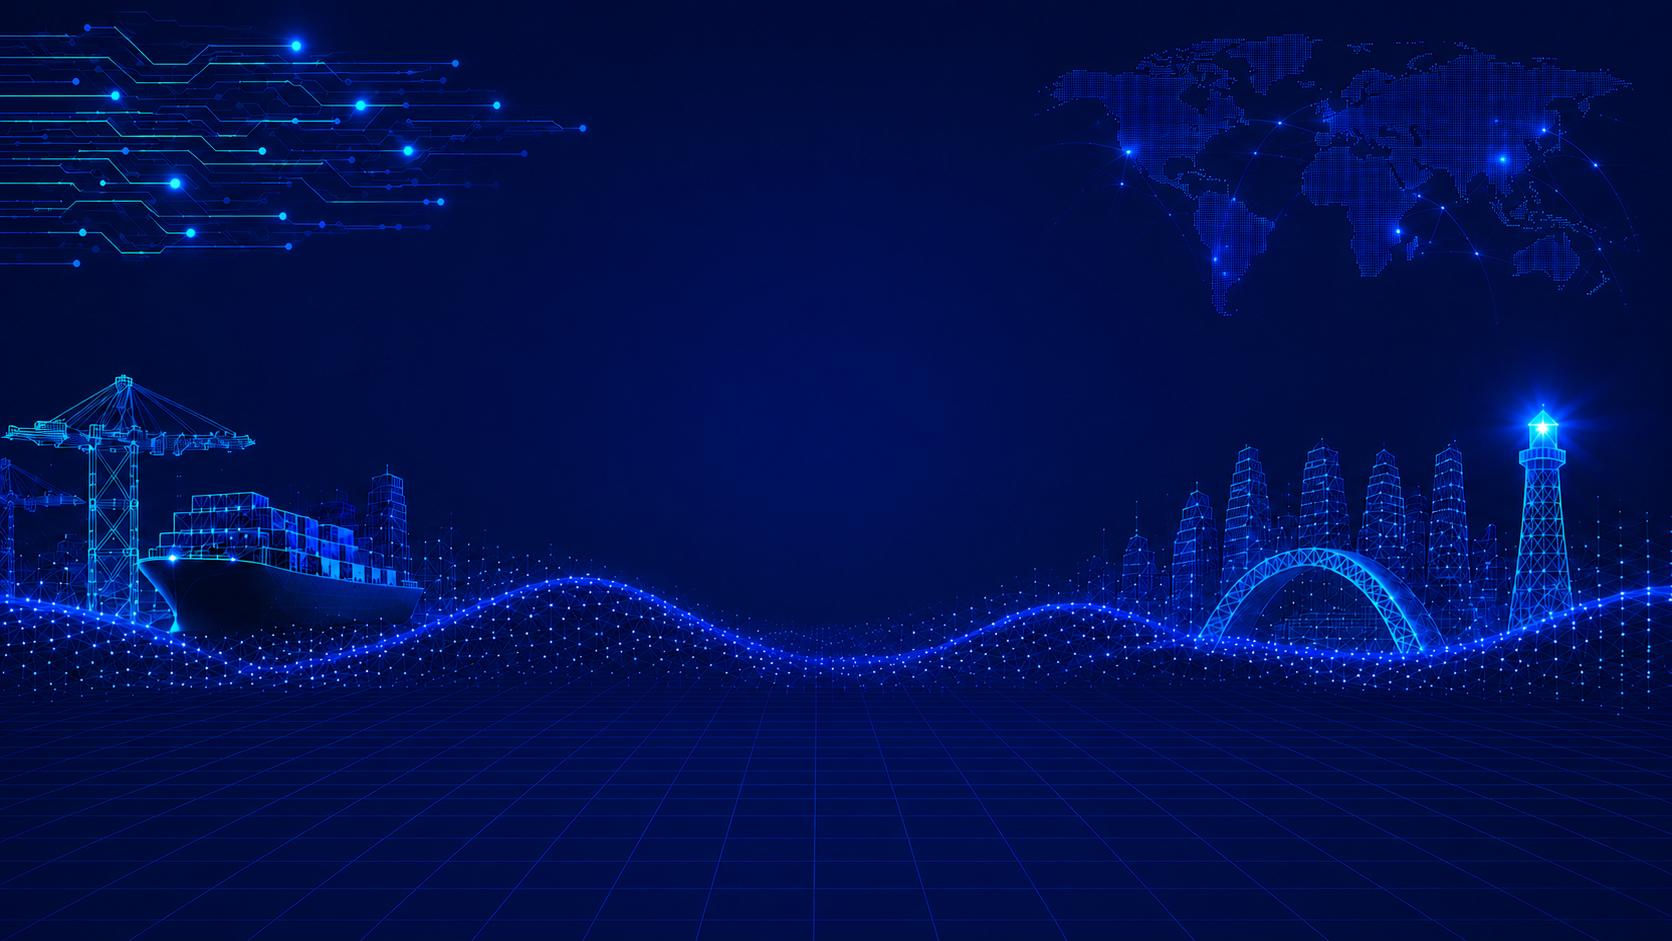
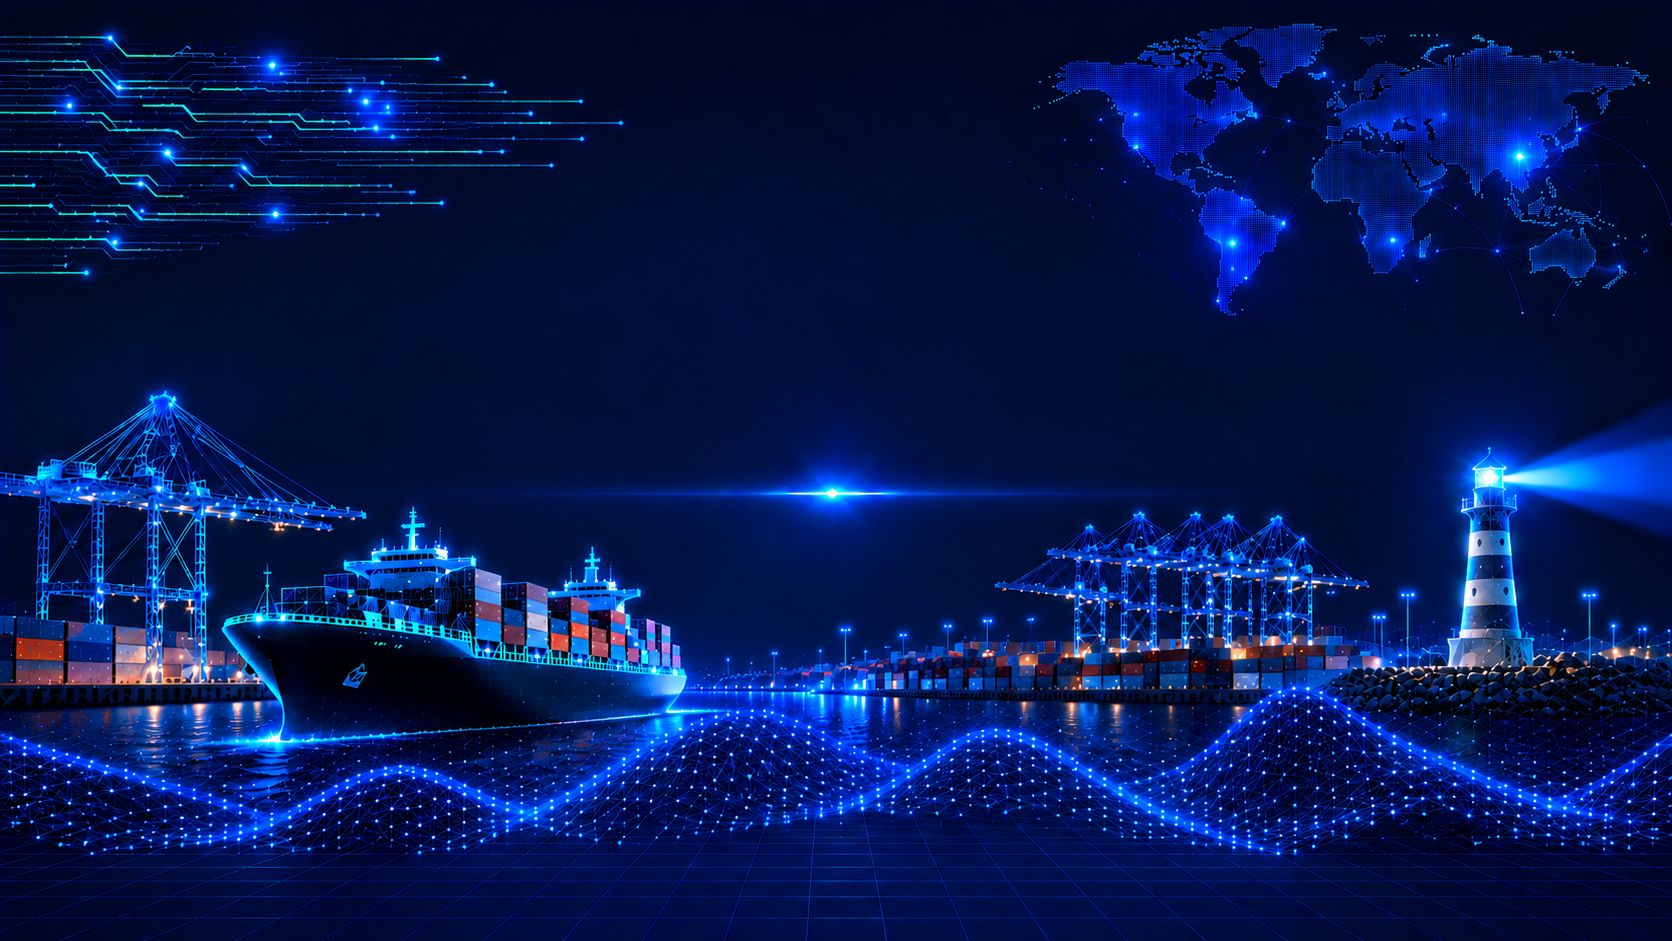
Add two-column layout and preview styles; update background images

diff --git a/showcase-design.css b/showcase-design.css
@@ -1,4 +1,4 @@
-.app-showcase{height:100%;position:relative;overflow:hidden;padding:5.2% 8%;background:#031342 url('bg.jpg') center/cover no-repeat;color:#fff}
+.app-showcase{height:100%;position:relative;overflow:hidden;padding:5.2% 8%;background:#031342 url('bg.png') center/cover no-repeat;color:#fff}
 .app-showcase:before{content:"";position:absolute;inset:0;background:linear-gradient(90deg,rgba(2,12,54,.82),rgba(3,21,82,.16) 63%,rgba(1,10,45,.4));pointer-events:none}.showcase-copy,.product-frame,.showcase-progress{position:relative;z-index:1}.showcase-copy{width:38%;min-width:260px;padding-top:7%}.showcase-copy p{font:700 clamp(9px,1.2vw,18px) 'Space Grotesk';letter-spacing:.18em;color:#62efff}.showcase-copy h3{font:700 clamp(26px,4.3vw,69px)/1.08 'Space Grotesk';margin:0;text-shadow:0 0 18px #0a71e9}.product-frame{position:absolute;right:7%;top:10%;width:53%;height:75%;display:grid;place-items:center;border:1px solid rgba(63,230,255,.55);border-radius:clamp(10px,1.5vw,24px);background:rgba(3,16,69,.34);box-shadow:0 0 30px rgba(14,169,255,.35),inset 0 0 30px rgba(10,75,205,.28);overflow:hidden}.product-frame img{width:100%;height:100%;object-fit:contain;filter:drop-shadow(0 14px 20px rgba(0,0,0,.4));animation:showcase-in .7s cubic-bezier(.2,.8,.2,1) both}.showcase-progress{position:absolute;left:8%;bottom:10%;display:flex;gap:9px}.showcase-progress i{display:block;width:clamp(24px,4vw,62px);height:3px;background:rgba(146,227,255,.35);border-radius:99px}.showcase-progress i.active{background:#57f4ff;box-shadow:0 0 8px #2bdcff}@keyframes showcase-in{from{opacity:0;transform:translateY(25px) scale(.97)}to{opacity:1;transform:none}}
 .showcase-controls{display:none;grid-column:1/-1;margin-top:4px;padding:20px;border:1px solid #e2e8f2;border-radius:13px;background:#fff}.showcase-controls.visible{display:block}.showcase-controls h3{font:700 16px 'Space Grotesk';margin:0 0 14px;color:#102653}.showcase-thumbs{display:grid;grid-template-columns:repeat(3,1fr);gap:12px}.showcase-thumb{border:1px solid #e3e9f3;border-radius:9px;overflow:hidden;background:#f7faff}.showcase-thumb img{display:block;width:100%;height:94px;object-fit:cover}.showcase-thumb span{display:block;padding:9px;font-size:11px;font-weight:700;color:#18305d}
 @media(max-width:700px){.app-showcase{padding:9% 7%}.showcase-copy{width:100%;padding-top:0}.showcase-copy h3{font-size:clamp(23px,6vw,42px)}.product-frame{top:38%;left:7%;right:7%;width:auto;height:51%}.showcase-progress{left:7%;bottom:7%}.showcase-thumbs{grid-template-columns:1fr}.showcase-thumb{display:flex;align-items:center}.showcase-thumb img{width:110px;height:72px}.showcase-controls{padding:16px}}

diff --git a/count-scene.css b/count-scene.css
@@ -1,1 +1,1 @@
-.count-tech-scene .screen-bg{background:url('bg.jpg') center/cover no-repeat!important}.count-tech-scene .display-top{display:none!important}.count-tech-scene .orb-row{opacity:.72}.count-overlay{position:absolute;z-index:4;left:50%;top:45%;transform:translate(-50%,-50%);display:grid;place-items:center;width:clamp(190px,31vw,500px);aspect-ratio:1;border-radius:50%;border:1px solid rgba(57,224,255,.85);background:radial-gradient(circle,#1459c8 0%,#0d358d 58%,rgba(5,30,103,.75) 100%);box-shadow:0 0 48px rgba(33,181,255,.68),inset 0 0 42px rgba(44,226,255,.35);animation:count-scene-in .45s ease-out both}.count-overlay b{font:700 clamp(120px,25vw,390px)/.8 'Space Grotesk';color:#fff;text-shadow:0 0 28px #37d9ff}.count-overlay.ready{width:auto;aspect-ratio:auto;padding:clamp(32px,6vw,90px) clamp(34px,8vw,130px)}.count-overlay.ready b{font:700 clamp(19px,4vw,59px) 'Space Grotesk';letter-spacing:.16em;white-space:nowrap}.count-tech-scene .touch-link{bottom:16%}@keyframes count-scene-in{from{opacity:0;transform:translate(-50%,-45%) scale(.9)}to{opacity:1;transform:translate(-50%,-50%) scale(1)}}
+.count-tech-scene .screen-bg{background:url('bg.png') center/cover no-repeat!important}.count-tech-scene .display-top{display:none!important}.count-tech-scene .orb-row{opacity:.72}.count-overlay{position:absolute;z-index:4;left:50%;top:45%;transform:translate(-50%,-50%);display:grid;place-items:center;width:clamp(190px,31vw,500px);aspect-ratio:1;border-radius:50%;border:1px solid rgba(57,224,255,.85);background:radial-gradient(circle,#1459c8 0%,#0d358d 58%,rgba(5,30,103,.75) 100%);box-shadow:0 0 48px rgba(33,181,255,.68),inset 0 0 42px rgba(44,226,255,.35);animation:count-scene-in .45s ease-out both}.count-overlay b{font:700 clamp(120px,25vw,390px)/.8 'Space Grotesk';color:#fff;text-shadow:0 0 28px #37d9ff}.count-overlay.ready{width:auto;aspect-ratio:auto;padding:clamp(32px,6vw,90px) clamp(34px,8vw,130px)}.count-overlay.ready b{font:700 clamp(19px,4vw,59px) 'Space Grotesk';letter-spacing:.16em;white-space:nowrap}.count-tech-scene .touch-link{bottom:16%}@keyframes count-scene-in{from{opacity:0;transform:translate(-50%,-45%) scale(.9)}to{opacity:1;transform:translate(-50%,-50%) scale(1)}}

diff --git a/two-column-ratio.css b/two-column-ratio.css
@@ -1,0 +1,18 @@
+@media(min-width:1101px){
+  .control-preview-layout{grid-template-columns:minmax(0,2fr) minmax(0,3fr);gap:24px}
+  .control-preview-layout .preview-section{padding:18px}
+  .control-preview-layout .mini-display{width:100%;aspect-ratio:16/9}
+  .control-column .state-card-single{margin-top:14px}
+  .control-column .state-card-single .state-card,.control-column .state-card{min-height:142px;padding:16px}
+  .control-column .state-card b{margin-top:25px;font-size:14px}
+  .control-column .state-card small{font-size:10px;margin-top:5px}
+  .control-column .state-icon{width:34px;height:34px;font-size:14px}
+  .control-column .interaction-panel{padding:20px;margin-top:18px}
+  .control-column .panel-heading h2{font-size:18px}
+  .control-column .hint{font-size:11px}
+  .control-column .touch-controls{grid-template-columns:repeat(4,1fr);gap:8px;margin-top:16px}
+  .control-column .touch-btn{min-height:80px;padding:9px 5px}
+  .control-column .touch-orb{width:30px;height:30px;margin-bottom:5px}
+  .control-column .touch-btn b{font-size:9px}
+  .control-column .touch-btn small{font-size:8px}
+}

diff --git a/countdown-design.css b/countdown-design.css
@@ -1,5 +1,5 @@
 /* Countdown uses the supplied numbered event visuals over the clean bg asset. */
-.count-screen{background:#031342 url('bg.jpg') center/cover no-repeat!important;position:relative;overflow:hidden}
+.count-screen{background:#031342 url('bg.png') center/cover no-repeat!important;position:relative;overflow:hidden}
 .count-image{position:absolute;inset:0;width:100%;height:100%;object-fit:cover;animation:count-in .42s ease-out both}
 .count-zero{position:relative;z-index:1;width:clamp(175px,37vw,605px);aspect-ratio:1;border-radius:50%;display:grid;place-items:center;background:radial-gradient(circle at 50% 45%,#1854ca,#0b2d87 63%,#09236c);border:1px solid #2ad8ff;box-shadow:0 0 55px rgba(26,169,255,.75),inset 0 0 42px rgba(16,208,255,.42)}
 .count-zero p{position:absolute;top:23%;margin:0;color:#79f7ff;font:700 clamp(9px,1.8vw,28px) 'Space Grotesk';letter-spacing:.28em}.count-zero b{font:700 clamp(110px,25vw,400px)/.8 'Space Grotesk';color:#fff;text-shadow:0 0 28px #39caff}

diff --git a/app.js b/app.js
@@ -28,6 +28,18 @@ if (stateCardsContainer && firstStateCard && interactionPanel) {
   interactionPanel.classList.add('state-1-panel');
   stateCardsContainer.parentNode.insertBefore(interactionPanel, stateCardsContainer);
 }
+const workspace = document.querySelector('.workspace');
+const stateSection = document.querySelector('.state-section');
+const previewSection = document.querySelector('.preview-section');
+if (workspace && stateSection && previewSection) {
+  const twoColumnLayout = document.createElement('div');
+  twoColumnLayout.className = 'control-preview-layout';
+  const controlColumn = document.createElement('div');
+  controlColumn.className = 'control-column';
+  workspace.insertBefore(twoColumnLayout, stateSection);
+  twoColumnLayout.append(controlColumn, previewSection);
+  controlColumn.appendChild(stateSection);
+}
 if (stateCardsContainer) {
   const showcaseControls = document.createElement('div');
   showcaseControls.className = 'showcase-controls';

diff --git a/preview-orbs.css b/preview-orbs.css
@@ -1,0 +1,8 @@
+.mini-display .orb-row.custom-points .display-orb{width:8.5%!important}
+.mini-display .orb-row.custom-points .orb-label{font-size:clamp(8px,1vw,12px)}
+.mini-display .count-tech-scene .orb-row .display-orb{width:8.5%!important}
+.mini-display .count-tech-scene .orb-row .orb-label{font-size:clamp(8px,1vw,12px)}
+.mini-display .count-overlay{width:27%!important;max-width:240px!important}
+.mini-display .count-overlay b{font-size:clamp(54px,6vw,100px)!important}
+.mini-display .count-overlay.ready{width:auto;max-width:none;padding:28px 42px}
+.mini-display .count-overlay.ready b{font-size:clamp(13px,1.8vw,23px)!important}

diff --git a/two-column-layout.css b/two-column-layout.css
@@ -1,0 +1,8 @@
+@media(min-width:1101px){
+  .control-preview-layout{display:grid;grid-template-columns:minmax(0,1.12fr) minmax(420px,.88fr);align-items:start;gap:30px;margin-top:52px}
+  .control-preview-layout .state-section{margin-top:0}
+  .control-preview-layout .preview-section{position:sticky;top:98px;margin-top:0;padding:22px;border:1px solid #e2e8f2;border-radius:15px;background:#fff;box-shadow:0 12px 28px rgba(25,54,112,.08)}
+  .control-preview-layout .preview-heading{margin-bottom:16px}
+  .control-preview-layout .mini-display{box-shadow:none}
+  .control-preview-layout .interaction-panel{margin-top:24px}
+}

diff --git a/tool.html b/tool.html
@@ -30,6 +30,10 @@
     <link rel="stylesheet" href="showcase-wow.css" />
     <link rel="stylesheet" href="point-editor.css" />
     <link rel="stylesheet" href="showcase-overview.css" />
+    <link rel="stylesheet" href="preview-ratio.css" />
+    <link rel="stylesheet" href="two-column-layout.css" />
+    <link rel="stylesheet" href="two-column-ratio.css" />
+    <link rel="stylesheet" href="preview-orbs.css" />
   </head>
   <body>
     <main class="console">
